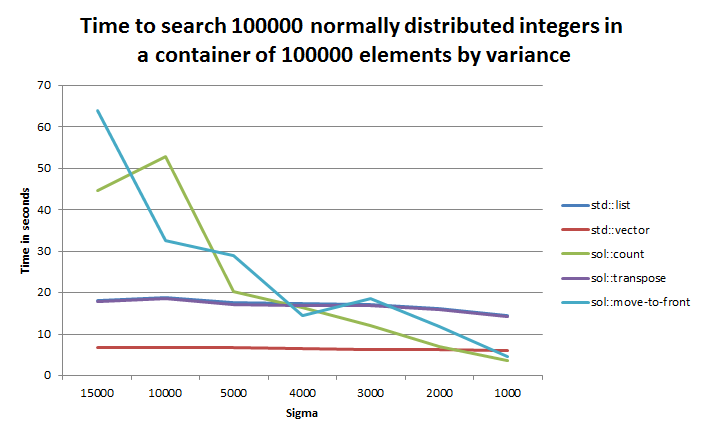
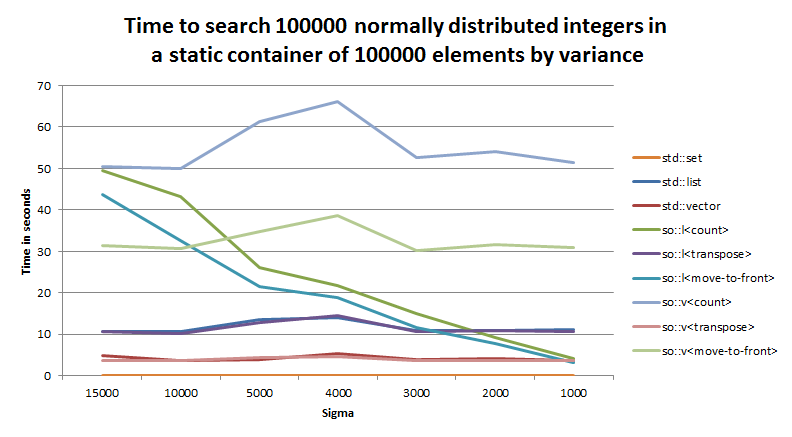
Better performance test that ensures everything is ran by itself instead of saving time. Write the rest of the performance paragraph. Commited the Excel sheet too, might as well.
But now I feel I should do more tests.
One with containers not being static, one where searches have a "series" pattern to them and a compbination of both.

diff --git a/tests/performance.cpp b/tests/performance.cpp
@@ -9,12 +9,12 @@
 #include <future>
 #include <iostream>
 #include <random>
+#include <set>
 
 using namespace std;
 
 namespace so = self_organizing;
 
-template<template<typename, typename> class C, template<typename, typename> class S>
 void test(size_t size, const double sigma)
 {
 	static vector<int> v(size);
@@ -33,13 +33,18 @@ void test(size_t size, const double sigma)
 		initialized = true;
 	}
 
-	// Initialize a control container with the numbers from 0 to size, shuffled.
-	C<int, std::allocator<int>> control(begin(v), end(v));
+	// Initialize control containers with the numbers from 0 to size, shuffled.
+	list<int> std_l(begin(v), end(v));
+	vector<int> std_v(begin(v), end(v));
+	set<int> std_s(begin(v), end(v));
 
-	// Initialize three containers with different policies with the same values as the control container.
-	S<int, so::find_policy::count> count(begin(control), end(control));
-	S<int, so::find_policy::transpose> transpose(begin(control), end(control));
-	S<int, so::find_policy::move_to_front> mtf(begin(control), end(control));
+	// Initialize three so::lists and three so::vector with different policies with the same values as the control container.
+	so::list<int, so::find_policy::count> so_l_count(begin(v), end(v));
+	so::list<int, so::find_policy::transpose> so_l_transpose(begin(v), end(v));
+	so::list<int, so::find_policy::move_to_front> so_l_mtf(begin(v), end(v));
+	so::vector<int, so::find_policy::count> so_v_count(begin(v), end(v));
+	so::vector<int, so::find_policy::transpose> so_v_transpose(begin(v), end(v));
+	so::vector<int, so::find_policy::move_to_front> so_v_mtf(begin(v), end(v));
 
 	// Generate 100000 numbers to search for given the passed distribution.
 	random_device rd;
@@ -50,90 +55,134 @@ void test(size_t size, const double sigma)
 	generate_n(back_inserter(searches), 100000, [&dis, &gen]{ return dis(gen); });
 
 
-	// Perform the for the numbers on all four containers, in parallel.
 	chrono::high_resolution_clock hrc;
 
-	auto control_time = async(launch::async, [&hrc, &searches, &control]()
+	// Perform the search on the control group.
+	auto std_l_time = async(launch::deferred, [&hrc, &searches, &std_l]()
 	{
 		auto start = hrc.now();
 
 		for(size_t i = 0; i != searches.size(); ++i)
 		{
-			find(begin(control), end(control), searches[i]);
+			find(begin(std_l), end(std_l), searches[i]);
 		}
 	
 		return chrono::duration_cast<chrono::milliseconds>(hrc.now() - start).count();
 	});
 
-	auto count_time = async(launch::async, [&hrc, &searches, &count]()
+	auto std_v_time = async(launch::deferred, [&hrc, &searches, &std_v]()
 	{
 		auto start = hrc.now();
 
 		for(size_t i = 0; i != searches.size(); ++i)
 		{
-			count.find(searches[i]);
+			find(begin(std_v), end(std_v), searches[i]);
 		}
-
+	
 		return chrono::duration_cast<chrono::milliseconds>(hrc.now() - start).count();
 	});
-
-	auto transpose_time = async(launch::async, [&hrc, &searches, &transpose]()
-	{
-		auto start = hrc.now();
-
-		for(size_t i = 0; i != searches.size(); ++i)
-		{
-			transpose.find(searches[i]);
-		}
-
-		return chrono::duration_cast<chrono::milliseconds>(hrc.now() - start).count();
-	});
-
+	
 	auto start = hrc.now();
 
 	for(size_t i = 0; i != searches.size(); ++i)
 	{
-		mtf.find(searches[i]);
+		std_s.find(searches[i]);
 	}
 	
-	cout << "find_policy::move_to_front: " << chrono::duration_cast<chrono::milliseconds>(hrc.now() - start).count() << "ms" << endl;
-	cout << "find_policy::transpose: " << transpose_time.get() << "ms" << endl;
-	cout << "find_policy::count: " << count_time.get() << "ms" << endl;
-	cout << "std::control: " << control_time.get() << "ms" << endl;
+	cout << "std::set: " << chrono::duration_cast<chrono::milliseconds>(hrc.now() - start).count() << "ms" << endl;
+	cout << "std::vector: " << std_v_time.get() << "ms" << endl;
+	cout << "std::list: " << std_l_time.get() << "ms" << endl;
+
+
+	// Perform the search on the self-organizing containers.
+	auto so_l_count_time = async(launch::deferred, [&hrc, &searches, &so_l_count]()
+	{
+		auto start = hrc.now();
+
+		for(size_t i = 0; i != searches.size(); ++i)
+		{
+			so_l_count.find(searches[i]);
+		}
+
+		return chrono::duration_cast<chrono::milliseconds>(hrc.now() - start).count();
+	});
+
+	auto so_l_transpose_time = async(launch::deferred, [&hrc, &searches, &so_l_transpose]()
+	{
+		auto start = hrc.now();
+
+		for(size_t i = 0; i != searches.size(); ++i)
+		{
+			so_l_transpose.find(searches[i]);
+		}
+
+		return chrono::duration_cast<chrono::milliseconds>(hrc.now() - start).count();
+	});
+
+	auto so_l_mtf_time = async(launch::deferred, [&hrc, &searches, &so_l_mtf]()
+	{
+		auto start = hrc.now();
+
+		for(size_t i = 0; i != searches.size(); ++i)
+		{
+			so_l_mtf.find(searches[i]);
+		}
+
+		return chrono::duration_cast<chrono::milliseconds>(hrc.now() - start).count();
+	});
+
+	auto so_v_count_time = async(launch::deferred, [&hrc, &searches, &so_v_count]()
+	{
+		auto start = hrc.now();
+
+		for(size_t i = 0; i != searches.size(); ++i)
+		{
+			so_v_count.find(searches[i]);
+		}
+
+		return chrono::duration_cast<chrono::milliseconds>(hrc.now() - start).count();
+	});
+
+	auto so_v_transpose_time = async(launch::deferred, [&hrc, &searches, &so_v_transpose]()
+	{
+		auto start = hrc.now();
+
+		for(size_t i = 0; i != searches.size(); ++i)
+		{
+			so_v_transpose.find(searches[i]);
+		}
+
+		return chrono::duration_cast<chrono::milliseconds>(hrc.now() - start).count();
+	});
+
+	start = hrc.now();
+
+	for(size_t i = 0; i != searches.size(); ++i)
+	{
+		so_v_mtf.find(searches[i]);
+	}
+	
+	cout << "so::v<move_to_front>: " << chrono::duration_cast<chrono::milliseconds>(hrc.now() - start).count() << "ms" << endl;
+	cout << "so::v<transpose>: " << so_v_transpose_time.get() << "ms" << endl;
+	cout << "so::v<count>: " << so_v_count_time.get() << "ms" << endl;
+	cout << "so::l<move_to_front>: " << so_l_mtf_time.get() << "ms" << endl;
+	cout << "so::l<transpose>: " << so_l_transpose_time.get() << "ms" << endl;
+	cout << "so::l<count>: " << so_l_count_time.get() << "ms" << endl;
 }
 
 int main()
 {
-	cout << "list<>" << endl;
-
 	for(double sigma = 15000.; sigma > 4999.; sigma -= 5000)
 	{
 		cout << "Sigma: " << sigma << endl;
-		test<std::list, so::list>(100000, sigma);
+		test(100000, sigma);
 		cout << endl;
 	}
 
 	for(double sigma = 4000.; sigma > 999.; sigma -= 1000)
 	{
 		cout << "Sigma: " << sigma << endl;
-		test<std::list, so::list>(100000, sigma);
-		cout << endl;
-	}
-
-	cout << endl;
-	cout << "vector<>" << endl;
-
-	for(double sigma = 15000.; sigma > 4999.; sigma -= 5000)
-	{
-		cout << "Sigma: " << sigma << endl;
-		test<std::vector, so::vector>(100000, sigma);
-		cout << endl;
-	}
-
-	for(double sigma = 4000.; sigma > 999.; sigma -= 1000)
-	{
-		cout << "Sigma: " << sigma << endl;
-		test<std::vector, so::vector>(100000, sigma);
+		test(100000, sigma);
 		cout << endl;
 	}
 

diff --git a/include/self_organizing.h b/include/self_organizing.h
@@ -738,13 +738,39 @@ There would indeed be no useful information from past searches to use and optimi
 Self-organizing lists must only be used when searches are not random.
 
 I tested the performance of the following scenario.
-I randomly shuffled integers from 0 to 999999.
-I copied the numbers to five containers.
-One <tt>std::list</tt>, one <tt>std::vector</tt> and three self_organizing::list, each with a different \ref self_organizing::find_policy "find_policy".
-I then generated 100000 random integers multiple times from the same range using a <a href=http://en.wikipedia.org/wiki/Normal_distribution>normal distribution</a>.
+I randomly shuffled integers from 0 to 999999 and copied them to nine containers:
+ - One \c std::list, one \c std::vector and one \c std::set.
+ - Three self_organizing::list, each with a different \ref self_organizing::find_policy "find_policy".
+ - Three self_organizing::vector, each with a different \ref self_organizing::find_policy "find_policy".
+
+ I then generated 100000 random integers multiple times from the same range using a <a href=http://en.wikipedia.org/wiki/Normal_distribution>normal distribution</a>.
 Each time, the mean was kept at 50000 and the variance was changed. Here are the results.
 
 \image html performance.png
+
+First obvious conclusion: \c std::set crushes the competition.
+It barely registers.
+But, then again, this scenario is essentially perfect for it.
+All data is known ahead of time and I'm only measuring the time taken to search, not the time taken to set up to container.
+\c std::set reorganized the data in order during construction and and its \a log(N) search performance did the rest.
+
+At the other side of the spectrum, \c self_organizing::vector<find_policy::count> and \c self_organizing::vector<find_policy::move_to_front> can't keep up at all.
+The maintenance required is utterly misadapted to a \c vector since both policies constanly rearrange elements using insertion, an operation that \c vector is not made for.
+
+What's left in between?
+In third place we have \c std::vector.
+The nature of this test favors packed and static data, so that's no surprise.
+But ahead of it by a nose is \c self_organizing::vector<find_policy::transpose>.
+The transposition strategy of swapping element incurs little overhead to a \c vector and afforded it the second place.
+
+Where are our lists?
+\c std::list and \c self_organizing::list<find_policy::transpose> performed in lock-step, mimicking their \c vector cousins.
+Only, three times slower.
+I'm surprised the transposition strategy didn't help that much.
+Remains, \c self_organizing::list<find_policy::count> and \c self_organizing::list<find_policy::move_to_front>.
+Now those are interesting because they show a pattern of improving performance as the search variance is reduced.
+\c self_organizing::list<find_policy::move_to_front> even managed to come ahead of the \c vectors in the last test!
+
 
 \section sample Sample code
 
